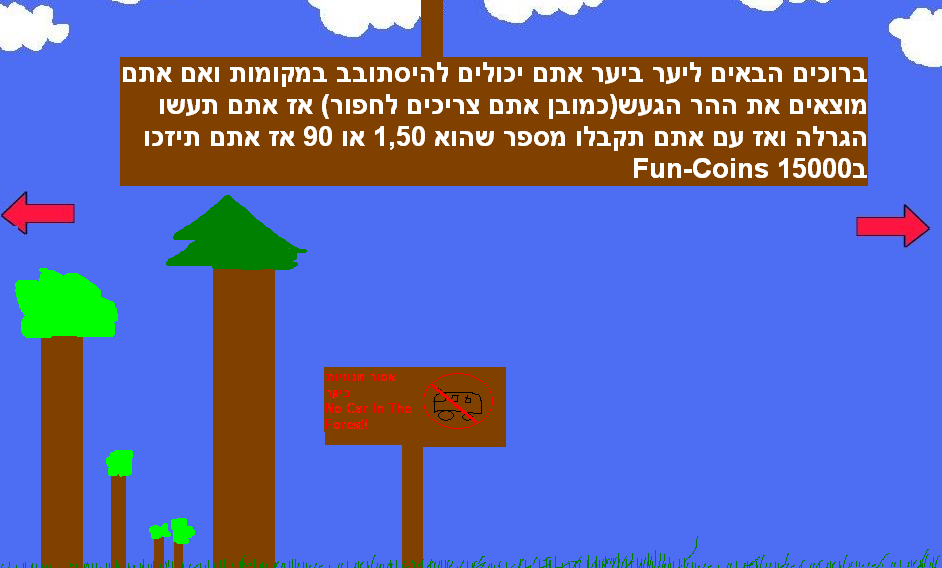
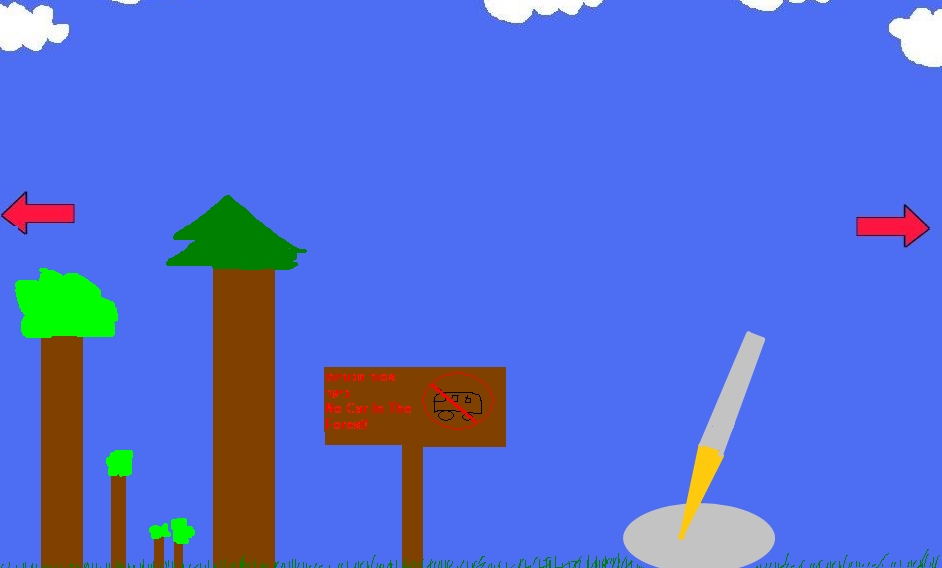
Getting ready for taking out Funworldlife BETA

Changed region(s): [[0.1231, 0.0, 0.9236, 0.3292], [0.6465, 0.5687, 0.8312, 1.0]]

diff --git a/system/application/controllers/map.php b/system/application/controllers/map.php
@@ -13,70 +13,11 @@ class Map extends Funworldlife {
 $map_file = array (
 	"file" => "FunworldlifeWorld.png",
 	"width" => 945,
-	"height" => 568
+	"height" => 700
 );
 
 $map = array(
-	array( 
-		"id" =>  "Buttletunnle", 
-		"href" => "battletunnle", 
-		"title" => "בית המלחמות | Battletunnle",
-		"left" => 608, 
-		"top" => 92,
-		"width" => 241, 
-		"height" => 470 
-	),
 	
-	array( 
-		"id" =>  "buyhouse", 
-		"href" => "buyhouse", 
-		"title" => "Click Her To Bulid A House | לחץ כאן כדי לבנות בית",
-		"left" => 418, 
-		"top" => 461, 
-		"width" => 183, 
-		"height" => 107 
-	),
-	
-	array( 
-		"id" =>  "buyhouse2", 
-		"href" => "buyhouse", 
-		"title" => "Click Her To Bulid A House | לחץ כאן כדי לבנות בית",
-		"left" => 227, 
-		"top" => 461, 
-		"width" => 183, 
-		"height" => 107 
-	),
-	
-	array( 
-		"id" =>  "apartments", 
-		"href" => "apartments", 
-		"title" => "דירות | apartments",
-		"left" => 0, 
-		"top" => 251, 
-		"width" => 106, 
-		"height" => 317 
-	),
-	
-		
-	array( 
-		"id" =>  "arrow_left", 
-		"href" => "welcome", 
-		"title" => "לרחוב הקודם",
-		"left" => 0, 
-		"top" => 127, 
-		"width" => 86, 
-		"height" => 54
-	),	
-	
-		array( 
-		"id" =>  "arrow_right", 
-		"href" => "road3", 
-		"title" => "לרחוב הבא",
-		"left" => 853, 
-		"top" => 204, 
-		"width" => 86, 
-		"height" => 41
-	),	
 );
 
 ?>

diff --git a/system/application/controllers/mall.php b/system/application/controllers/mall.php
@@ -1,4 +1,4 @@
-<?php
+<?php
 require "Funworldlife.php";
 
 class Mall extends Funworldlife {
@@ -18,25 +18,6 @@ $map_file = array (
 );
 
 $map = array(
-	array( 
-		"id" =>  "guard", 
-		"href" => "guard", 
-		"title" => "שומר",
-		"left" => 740, 
-		"top" => 344, 
-		"width" => 200, 
-		"height" => 224 
-	),
-	
-	array( 
-		"id" =>  "bank", 
-		"href" => "bank", 
-		"title" => "בנק",
-		"left" => 339, 
-		"top" => 386, 
-		"width" => 162, 
-		"height" => 182 
-	),
 	
 	array( 
 		"id" =>  "shop_food", 
@@ -49,26 +30,16 @@ $map = array(
 	),
 	
 	array( 
-		"id" =>  "shop_electric", 
-		"href" => "shop_electric", 
-		"title" => "אלקטריק - חנות אלקטרוניקה",
-		"left" => 332, 
-		"top" => 42, 
-		"width" => 205, 
-		"height" => 219 
+		"id" =>  "shop_fre", 
+		"href" => "shops/shop/fre", 
+		"title" => "פאן רהיטים - חנות רהיטים",
+		"left" => 358, 
+		"top" => 33, 
+		"width" => 207,
+		"height" => 228 
 	),
 	
 	array( 
-		"id" =>  "shop_pets", 
-		"href" => "shop_pets", 
-		"title" => "חיות - חנות חיות",
-		"left" => 671, 
-		"top" => 61, 
-		"width" => 153, 
-		"height" => 200 
-	),	
-	
-		array( 
 		"id" =>  "back", 
 		"href" => "welcome", 
 		"title" => "חזרה לרחוב",

diff --git a/system/application/controllers/buyhouse.php b/system/application/controllers/buyhouse.php
@@ -1,4 +1,4 @@
-<?php
+<?php
 require "Funworldlife.php";
 
 class Buyhouse extends Funworldlife
@@ -74,6 +74,10 @@ class Buyhouse extends Funworldlife
 			'red' => $this->_color_price_string("אדום", $price_color_regular),
 			'olive_green' => $this->_color_price_string("ירוק זית", $price_color_regular),
 			'gold' => $this->_color_price_string("זהב", $price_color_gold),
+			'green' => $this->_color_price_string("ירוק", $price_color_regular),
+			'grey' => $this->_color_price_string("אפור", $price_color_regular),
+			'pink' => $this->_color_price_string("וורוד", $price_color_regular),
+			'purple' => $this->_color_price_string("סגול", $price_color_regular),
 		);
 		return array('name' => $name, 'options' => $colors);
 	}

diff --git a/system/application/controllers/road4.php b/system/application/controllers/road4.php
@@ -19,16 +19,6 @@ $map_file = array (
 $map = array(
 
 	
-	array( 
-		"id" =>  "DigHere", 
-		"href" => "DigHere1", 
-		"title" => "חפר כאן | Dig Here",
-		"left" => 624, 
-		"top" => 482,
-		"width" => 86, 
-		"height" => 71 
-	),
-	
 		
 	array( 
 		"id" =>  "arrow_left", 
@@ -40,16 +30,7 @@ $map = array(
 		"height" => 63
 	),	
 	
-		array( 
-		"id" =>  "ClickFun-Desert", 
-		"href" => "Desert", 
-		"title" => "לחץ כאן כדי ללחת למדבר | Click Here To Go In The Fun-Desert",
-		"left" => 336, 
-		"top" => 351,
-		"width" => 189,
-		"height" => 169 
-	),
-	
+		
 
 	array( 
 		"id" =>  "arrow_right", 

diff --git a/system/application/controllers/welcome.php b/system/application/controllers/welcome.php
@@ -17,7 +17,7 @@ $map_file = array (
 );
 
 $map = array(
-	array( 
+	/*array( 
 		"id" =>  "tree", 
 		"href" => "tree", 
 		"title" => "טיפוס על עץ",
@@ -34,7 +34,7 @@ $map = array(
 		"top" => 404, 
 		"width" => 191, 
 		"height" => 164 
-	),	
+	),	*/
 	array( 
 		"id" =>  "arrow_right", 
 		"href" => "road2", 
@@ -53,7 +53,7 @@ $map = array(
 		"width" => 258, 
 		"height" => 495
 	),	
-	array( 
+	/*array( 
 		"id" =>  "tree2", 
 		"href" => "tree", 
 		"title" => "טיפוס על העץ",
@@ -79,7 +79,7 @@ $map = array(
 		"top" => 400, 
 		"width" => 104, 
 		"height" => 168
-	),
+	),*/
 	
 );
 

diff --git a/system/application/controllers/road2.php b/system/application/controllers/road2.php
@@ -17,7 +17,7 @@ $map_file = array (
 );
 
 $map = array(
-	array( 
+	/*array( 
 		"id" =>  "Buttletunnle", 
 		"href" => "battletunnle", 
 		"title" => "בית המלחמות | Battletunnle",
@@ -36,7 +36,7 @@ $map = array(
 		"width" => 106, 
 		"height" => 317 
 	),
-	
+	*/
 		
 	array( 
 		"id" =>  "arrow_left", 

diff --git a/system/application/controllers/road3.php b/system/application/controllers/road3.php
@@ -17,7 +17,7 @@ $map_file = array (
 );
 
 $map = array(
-	
+	/*
 	array( 
 		"id" =>  "Museum", 
 		"href" => "Museum", 
@@ -38,7 +38,7 @@ $map = array(
 		"height" => 412 
 	),
 	
-		
+		*/
 	array( 
 		"id" =>  "arrow_left", 
 		"href" => "road2", 

diff --git a/system/application/controllers/english.php b/system/application/controllers/english.php
@@ -1,0 +1,12 @@
+<?php
+class English extends MY_Controller 
+{
+	function index()
+	{
+		$data = array();
+		$data["title"] = "Funworldlife - English";
+		$this->load->view("english_view", $data);
+	}
+}
+
+?>
